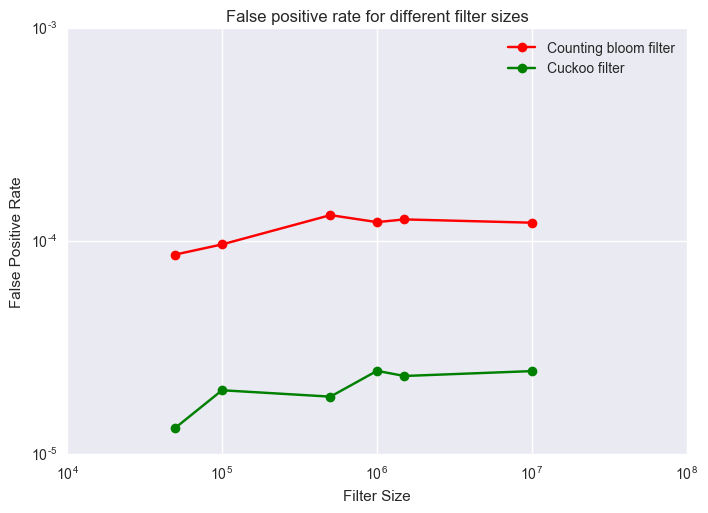
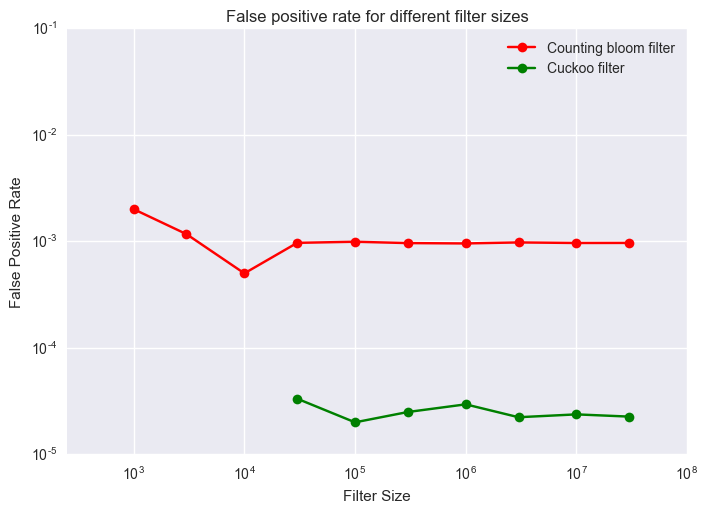
adding setup.py

diff --git a/setup.py b/setup.py
@@ -1,0 +1,18 @@
+from setuptools import setup
+
+setup(name="cuckoofilter",
+      version ="0.0.1", 
+      description="", 
+      url="", 
+      author="Fast Forward Labs", 
+      license="MIT", 
+      packages=["cuckoofilter"], 
+      install_requires=["mmh3", 
+                        "numpy",
+                        "json",
+                        "shutil",
+                        "matplotlib"
+    ], 
+      include_package_data=True, 
+      zip_safe=False
+      )

diff --git a/demo.py b/demo.py
@@ -3,7 +3,7 @@ from cuckoofilter import CountingBloomFilter
 
 if __name__ == "__main__":
 
-    max_items = 100000
+    max_items = 10000
     c_filter = CuckooFilter(2*max_items, 2)
     b_filter = CountingBloomFilter(2*max_items)
 
